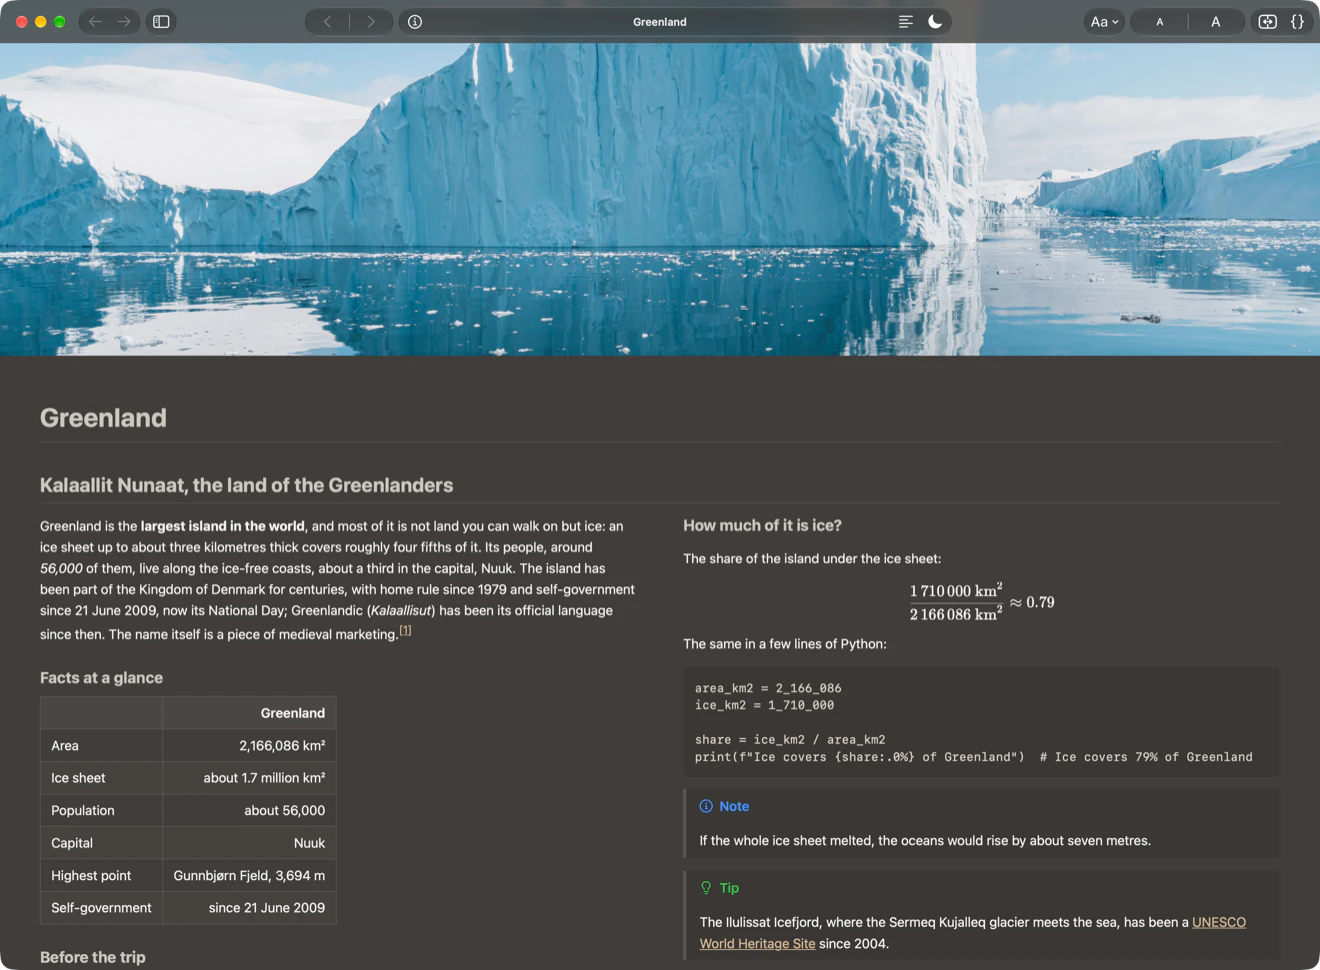
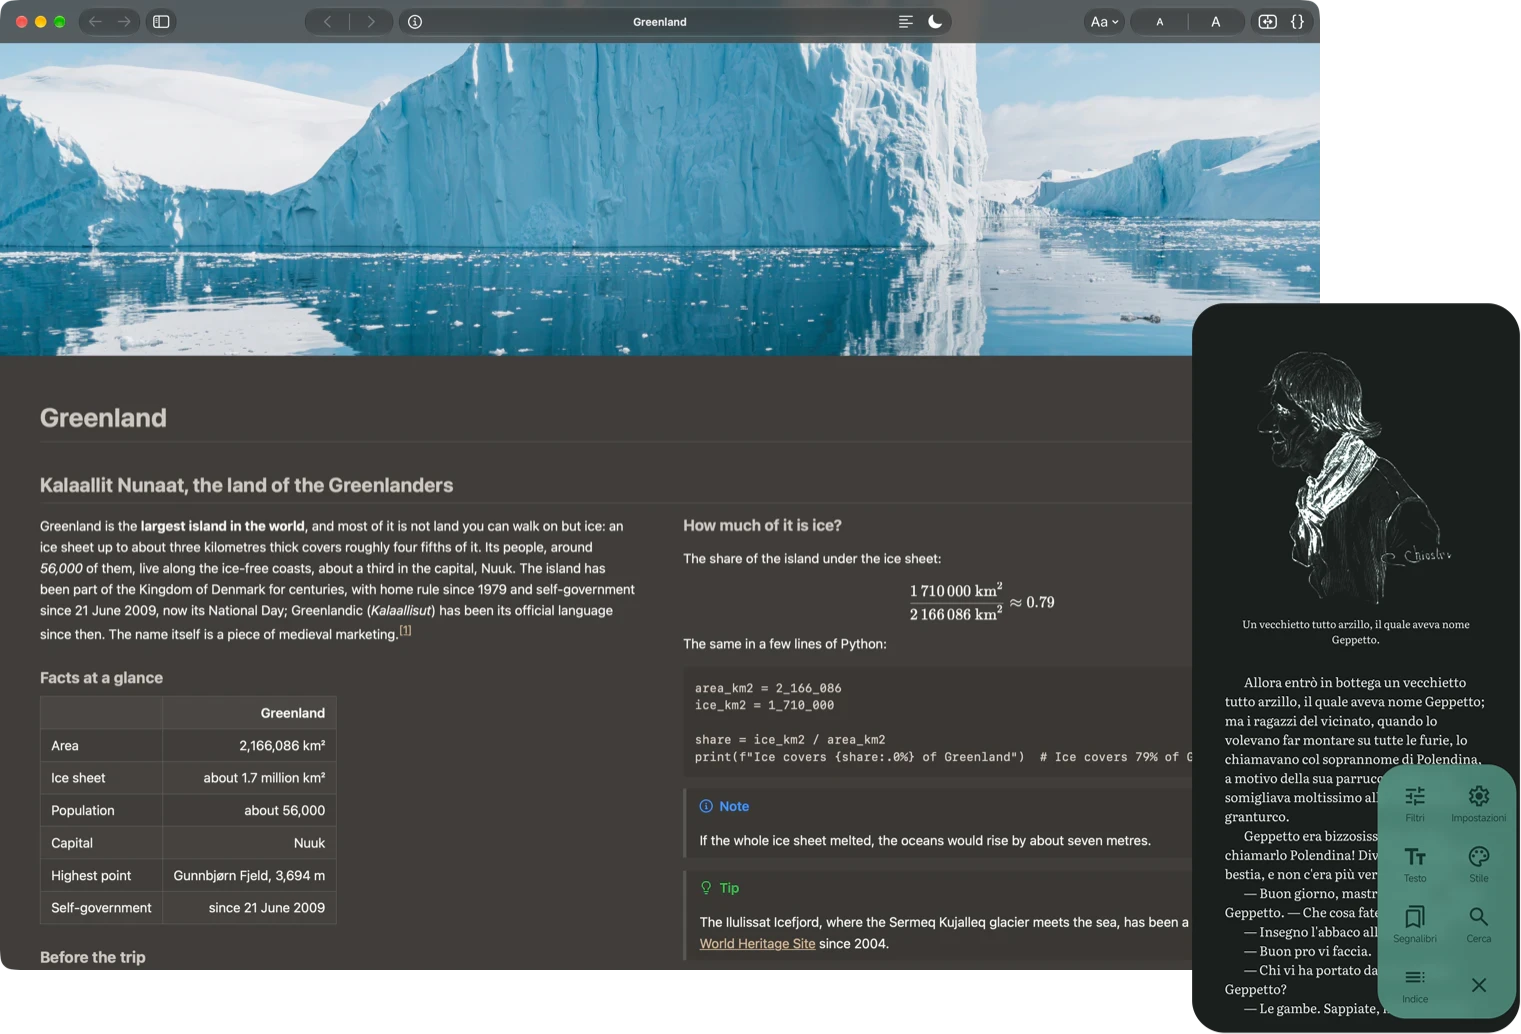
Aomidori: i tasti per macOS e per Android, e la schermata 1521 x 1034 (#1566)
Richiesta di Rocco del 2026-11-23 sulla pagina https://roccobot.github.io/Aomidori/.

- Il tasto dello Store diventa 'Scarica Aomidori per macOS' ('Download Aomidori for macOS').
- Il regalo dei codici promozionali esce dalla pagina: al suo posto c'è il tasto
  'Scarica Aomidori per Android' ('Download Aomidori for Android'), che porta a
  Roccobot/Aomidori-releases/releases/latest (scelta Pubblico-01). Le release del Mac su GitHub
  sono finite con la 2.27, che oggi è la più recente: il tasto si accende da solo quando l'API di
  GitHub dice che la release più recente contiene un APK, e fino ad allora resta la riga
  discreta 'In arrivo su Android'.
- Esce anche la nota 'Aomidori è un'app per Mac', che con un tasto per Android non è più vera.
- Tasti larghi uguali con le scritte nuove: 320 px in una colonna, 340 accanto alla schermata,
  tutta la colonna sul telefono (margine laterale 20 px), corpo 16 px sotto i 380 px; l'ultima
  parola è legata a quella prima. Misurati a 1440, 950, 390, 360 e 320 px nelle due lingue.
- Le due schermate sono il segnaposto di Rocco (macOS e Android, tema scuro), 1521 x 1034 in
  WebP a qualità 90, 174 KB, uguale nei due temi (scelta Immagine-01) finché non arriva
  l'immagine vera; VERSIONE_SCHERMATE sale a 10.

Agent: Claude Code

diff --git a/Aomidori/index.html b/Aomidori/index.html
@@ -15,18 +15,19 @@
   Author: Rocco Casadei, a.k.a. Roccobot
 
   ⚠ Nothing on this page changes at a release: since the Mac App Store approved the app
-  (2026-10-27, Insegna), the button leads to its page there and nothing else. Up to then it asked
-  the GitHub API for the latest ZIP of Roccobot/Aomidori-releases, with steps to install it.
+  (2026-10-27, Insegna), the Mac button leads to its page there and nothing else. The Android
+  button leads to the latest release of Roccobot/Aomidori-releases, and lights up by itself once
+  that release holds an APK (the owner's choice Pubblico-01, 2026-11-23): the Mac's GitHub
+  releases ended with 2.27, which stays there as history.
   ⚠ Never innerHTML: every text goes in with textContent.
   The English texts are written in the page itself, so it reads (and is indexed) without
   JavaScript; the script switches them to Italian for an Italian browser, title included.
-  The screenshot on the right (below, on narrow screens) is one file per theme, the same in both
+  The picture on the right (below, on narrow screens) is one file per theme, the same in both
   languages (the owner's choice Orizzonte, 2026-10-27): assets/screenshot-light.webp and
-  screenshot-dark.webp, a 1600 x 1176 pt window made by the owner, served at 1320 x 970 px in
-  lossy WebP at quality 90 (his rule of 2026-10-27, Roccobot.md, web images light: at most three
-  times the 440 px the page gives it, and the window shows a photograph). Until a file exists
-  its slot stays hidden and the
-  page keeps one column: adding the four files is the whole change.
+  screenshot-dark.webp, 1521 x 1034 px since 2026-11-23 (the Mac and Android apps together, made
+  by the owner), in lossy WebP at quality 90 (his rule of 2026-10-27, Roccobot.md, web images
+  light: at most three times the width the page gives it). Until a file exists its slot stays
+  hidden and the page keeps one column.
   ⚠ The icon is Graphe's artwork, copied unaltered from Resources/Icon/ (aomidori-v2.svg and
   aomidori-v2-dark.svg): the page picks one per theme, it never redraws it.
   The favicon is the glyph of the icon in the brand colour #43B59E (assets/favicon.svg), as AIV's.
@@ -149,17 +150,17 @@
     box-shadow:0 3px 6px rgba(0,0,0,0.18);
   }
   .scarica:hover{text-decoration:none; filter:brightness(1.06)}
-  /* The Android button (Android-01, 2026-11-08), under the Mac button's note: the Mac button's
-     shape and size with an outline instead of the fill, drawn as an inset shadow so it takes no
-     room. Without an address (the app is not on Google Play yet) it is an <a> with no href, so
-     neither a link nor focusable, and it is only a quiet line with its glyph: as a switched-off
-     button of full size it made the column a stack of three boxes (Rocco, 2026-11-08). */
-  /* One width for every button of the column, Mac, Android and giveaway, in both languages
-     (Rocco, 2026-11-08): in one column 16.5 em of the Mac button's text, 264 px at 16 px and
-     297 px at 18 px on a phone, which holds the longest label, 'Get it for Android', with its
-     glyph and padding (measured in WebKit on 2026-11-08); next to the screenshot, 340 px (see
-     .schermata). */
-  .parole{--tasto:264px}
+  /* The Android button (Android-01, 2026-11-08), under the Mac button's note, where the giveaway
+     was until 2026-11-23: the Mac button's shape and size with an outline instead of the fill,
+     drawn as an inset shadow so it takes no room. Until the latest release of
+     Aomidori-releases holds an APK (see the script) it is an <a> with no href, so neither a link
+     nor focusable, and it is only a quiet line with its glyph: as a switched-off button of full
+     size it made the column a stack of boxes (Rocco, 2026-11-08). */
+  /* One width for every button of the column, Mac and Android, in both languages (Rocco,
+     2026-11-08): it holds the longest label, 'Download Aomidori for Android', with its glyph and
+     padding, 315 px at 16 px (measured on 2026-11-23, with the labels that name the system): 320 px
+     in one column, 340 px next to the screenshot (see .schermata), the whole column on a phone. */
+  .parole{--tasto:320px}
   .scarica{min-width:var(--tasto); justify-content:center}
   .scarica.contorno{background:none; color:var(--text-link); box-shadow:inset 0 0 0 1.5px currentColor; margin-top:6px}
   .scarica.contorno[href]:hover{background:color-mix(in srgb, var(--text-link) 8%, transparent)}
@@ -172,32 +173,6 @@
   /* On an Android phone the Android button comes first in its block, above the Mac's. */
   .su-android #scarica-android{order:-1}
   .tecnica{font-size:13px; color:var(--text-muted); opacity:0.72; margin:0}
-  .solo-mac{font-size:14px; color:var(--text-body); margin:0}
-  .solo-mac[hidden]{display:none}
-
-  /* Regalo: the giveaway, under the download button and quieter than it (an outline, not a fill). */
-  .regalo{display:flex; flex-direction:column; gap:10px; align-items:flex-start}
-  .regalo[hidden],.regalo-codice[hidden],.regalo-tasto[hidden]{display:none}
-  .regalo-tasto{
-    display:inline-flex; align-items:center; gap:10px; cursor:pointer;
-    font:inherit; font-size:15px; font-weight:600; color:var(--text-link);
-    background:none; border:1.5px solid currentColor; padding:11px 20px; border-radius:12px;
-    min-width:var(--tasto); justify-content:center;
-  }
-  .regalo-tasto:hover{background:color-mix(in srgb, var(--text-link) 8%, transparent)}
-  .regalo-tasto:disabled{opacity:0.6; cursor:default}
-  .regalo-codice{display:flex; align-items:center; gap:12px; flex-wrap:wrap}
-  .regalo-codice code{
-    font:600 18px/1 ui-monospace,SFMono-Regular,Menlo,monospace; letter-spacing:0.06em;
-    padding:12px 16px; border-radius:10px; border:1px solid var(--outline-variant);
-    user-select:all; overflow-wrap:anywhere;
-  }
-  .regalo-copia{
-    font:inherit; font-size:14px; color:var(--text-link); background:none; border:0;
-    border-bottom:1px dotted var(--outline); padding:4px 0 3px; cursor:pointer;
-  }
-  /* pre-line: the validity date goes on a line of its own (the \n in the texts). */
-  .regalo-nota{font-size:14px; line-height:1.5; color:var(--text-muted); margin:0; max-width:30rem; text-wrap:pretty; white-space:pre-line}
 
   /* The screenshot slot: hidden until its picture has loaded, so a missing file never shows
      as a broken image. Expected files, one per theme (see the script): assets/screenshot-light.webp
@@ -271,14 +246,16 @@
   @media (max-width:880px){
     .testa{--icona:88px}
     h1{font-size:30px}
-    .parole{--tasto:297px}
-    .scarica{font-size:18px; padding:16px 30px; border-radius:14px; align-self:center}
+    /* As wide as the column: at 390 px the English Android label takes 333 of its 342 px, so the
+       side padding is 20 px (30 px until 2026-11-23, with the shorter labels). */
+    .parole{--tasto:100%}
+    .scarica{font-size:18px; padding:16px 20px; border-radius:14px; align-self:center}
     .blocco-scarica{align-items:stretch}
-    .tecnica, .solo-mac{text-align:center}
-    .regalo{align-items:center}
-    .regalo-nota{text-align:center}
+    .tecnica{text-align:center}
     .fatti{grid-template-columns:1fr; padding-top:40px}
   }
+  /* Narrower phones (360 px and below): at 18 px the labels would wrap on two lines. */
+  @media (max-width:380px){ .scarica{font-size:16px} }
 </style>
 </head>
 <body>
@@ -299,17 +276,16 @@
     <div class="parole">
       <p class="claim" id="claim">Books scroll like web pages, comics turn the way they should, and your CSS is always right. No fluff, no read-aloud, no paid AI stuff.</p>
       <div class="blocco-scarica">
-        <p class="solo-mac" id="solo-mac" hidden></p>
         <a class="scarica" id="scarica" href="https://apps.apple.com/app/id6824296623">
           <svg viewBox="0 0 24 24" width="20" height="20" aria-hidden="true">
             <path d="M12 3.5v11.2M12 15.6l4.4-4.4M12 15.6L7.6 11.2" fill="none" stroke="currentColor" stroke-width="1.8" stroke-linecap="round"></path>
             <path d="M4.4 18.8h15.2" fill="none" stroke="currentColor" stroke-width="1.8" stroke-linecap="round"></path>
           </svg>
-          <span id="scarica-testo">Download Aomidori</span>
+          <span id="scarica-testo">Download Aomidori for macOS</span>
         </a>
         <p class="tecnica" id="tecnica">macOS 27 or later, Apple Silicon only</p>
-        <!-- Android-01 (2026-11-08): for everyone, a quiet line until the app is on Google Play,
-             then a button (ANDROID_URL in the script). -->
+        <!-- Android-01 (2026-11-08): for everyone, a quiet line until the latest release of
+             Aomidori-releases holds an APK, then a button (see the script). -->
         <a class="scarica contorno" id="scarica-android">
           <!-- A phone. -->
           <svg viewBox="0 0 24 24" width="20" height="20" aria-hidden="true">
@@ -319,23 +295,9 @@
           <span id="scarica-android-testo">Coming soon to Android</span>
         </a>
       </div>
-      <!-- Regalo (2026-11-01): the promo code giveaway. Hidden until aomidori-codes answers, so
-           without JavaScript, or once the block is removed from the Worker, nothing shows. -->
-      <div class="regalo" id="regalo" hidden>
-        <button type="button" class="regalo-tasto" id="regalo-tasto">
-          <!-- A gift: a box with a ribbon. -->
-          <svg viewBox="0 0 24 24" width="20" height="20" aria-hidden="true"><rect x="4" y="9.6" width="16" height="10.8" rx="1.8" fill="none" stroke="currentColor" stroke-width="1.8"></rect><path d="M3.2 9.6h17.6M12 9.6v10.8M12 9.6c-1.4-3.6-5.6-4.4-5.6-1.8 0 1.2 1.6 1.8 5.6 1.8 4 0 5.6-.6 5.6-1.8 0-2.6-4.2-1.8-5.6 1.8" fill="none" stroke="currentColor" stroke-width="1.8" stroke-linecap="round" stroke-linejoin="round"></path></svg>
-          <span id="regalo-testo"></span>
-        </button>
-        <div class="regalo-codice" id="regalo-codice" hidden>
-          <code id="regalo-valore"></code>
-          <button type="button" class="regalo-copia" id="regalo-copia"></button>
-        </div>
-        <p class="regalo-nota" id="regalo-nota" aria-live="polite"></p>
-      </div>
     </div>
   </div>
-  <figure class="schermata" id="schermata" hidden><img id="schermata-img" width="1320" height="970" alt=""></figure>
+  <figure class="schermata" id="schermata" hidden><img id="schermata-img" width="1521" height="1034" alt=""></figure>
   </div>
 
   <div class="fatti">
@@ -425,10 +387,9 @@
       descrizione: 'Aomidori: un lettore di libri, fumetti e documenti per macOS, leggero e scattante. I libri scorrono come una pagina web, e il tuo CSS ha l\'ultima parola.',
       sottotitolo: 'Lettore di libri e fumetti per macOS',
       claim: 'I libri scorrono come pagine Web, i fumetti si sfogliano come si deve, e il tuo CSS ha sempre ragione. Niente fuffa e niente paccottiglia AI.',
-      scarica: 'Scarica Aomidori',
+      scarica: 'Scarica Aomidori per macOS',
       sistema: 'macOS 27 o successivo, solo Apple Silicon',
-      soloMac: 'Aomidori è un\'app per Mac: scaricala da un Mac con Apple Silicon.',
-      android: 'In arrivo su Android', scaricaAndroid: 'Scarica per Android',
+      android: 'In arrivo su Android', scaricaAndroid: 'Scarica Aomidori per Android',
       schermata: 'Aomidori con un libro aperto',
       fatti: [
         ['Un capitolo, una pagina', 'Ogni capitolo di un libro scorre in verticale come una pagina web, e le frecce cambiano capitolo. Niente impaginazione.'],
@@ -442,15 +403,6 @@
         ['I fumetti, a pagine', 'I CBZ e i CBR si leggono a pagine, anche da destra a sinistra come i manga, con le pagine affiancate, i filtri e i capitoli della cartella.'],
         ['Anche i documenti', 'I file Markdown si aprono come un libro, con formule, note, tabelle e uno stile tutto loro.']
       ],
-      regalo: {
-        tasto: 'Ricevi un codice gratis',
-        attesa: 'Un attimo',
-        restano: function (n, tot) { return 'Ne restano ' + n + ' su ' + tot + ', uno a persona.'; },
-        come: 'Nell\'App Store fai clic sul tuo nome nella barra laterale e riscatta il codice come una carta regalo.\nVale fino al 28 novembre.',
-        finiti: function () { return 'I codici gratis sono finiti. Grazie a tutti!'; },
-        errore: 'Il codice non è arrivato. Riprova fra poco.',
-        copia: 'Copia', copiato: 'Copiato'
-      },
       altra: 'English', titoloAltra: 'Read this page in English',
       temi: { light: 'Tema chiaro', dark: 'Tema scuro' },
       titoliTema: { light: 'Passa al tema chiaro', dark: 'Passa al tema scuro' }
@@ -461,10 +413,9 @@
       descrizione: 'Aomidori: a light, snappy reader of books, comics and documents for macOS. Books scroll like a web page, and your CSS has the last word.',
       sottotitolo: 'Book and comic reader for macOS',
       claim: 'Books scroll like web pages, comics turn the way they should, and your CSS is always right. No fluff, no read-aloud, no paid AI stuff.',
-      scarica: 'Download Aomidori',
+      scarica: 'Download Aomidori for macOS',
       sistema: 'macOS 27 or later, Apple Silicon only',
-      soloMac: 'Aomidori is an app for the Mac: download it on a Mac with Apple Silicon.',
-      android: 'Coming soon to Android', scaricaAndroid: 'Get it for Android',
+      android: 'Coming soon to Android', scaricaAndroid: 'Download Aomidori for Android',
       schermata: 'Aomidori with a book open',
       fatti: [
         ['One chapter, one page', 'Each chapter of a book scrolls vertically like a web page, and the arrow keys change chapter. No pagination.'],
@@ -478,15 +429,6 @@
         ['Comics, page by page', 'CBZ and CBR files read page by page, right to left too like manga, with spreads, filters and the folder\'s chapters.'],
         ['Documents too', 'Markdown files open like a book, with formulas, footnotes, tables and a style of their own.']
       ],
-      regalo: {
-        tasto: 'Get a free code',
-        attesa: 'One moment',
-        restano: function (n, tot) { return n + ' of ' + tot + ' left, one per person.'; },
-        come: 'In the App Store, click your name in the sidebar and redeem the code like a gift card.\nValid until 28 November.',
-        finiti: function (tot) { return 'All ' + tot + ' free codes are gone. Thank you!'; },
-        errore: 'The code didn\'t arrive. Try again in a moment.',
-        copia: 'Copy', copiato: 'Copied'
-      },
       altra: 'Italiano', titoloAltra: 'Leggi questa pagina in italiano',
       temi: { light: 'Light theme', dark: 'Dark theme' },
       titoliTema: { light: 'Switch to the light theme', dark: 'Switch to the dark theme' }
@@ -528,17 +470,33 @@
   if (mqScuro.addEventListener) mqScuro.addEventListener('change', alSistema);
   else if (mqScuro.addListener) mqScuro.addListener(alSistema);
 
-  // A visitor on a phone or on Windows learns at once that this is an app for the Mac; on an
-  // Android phone the Android button comes first instead, and the note is not needed.
-  var suMac = /Macintosh|Mac OS X/.test(navigator.userAgent) && !(navigator.maxTouchPoints > 1);
-  var suAndroid = /Android/i.test(navigator.userAgent);
-  if (suAndroid) document.body.classList.add('su-android');
+  // On an Android phone the Android button comes first in its block.
+  if (/Android/i.test(navigator.userAgent)) document.body.classList.add('su-android');
 
-  // The Android app's address on Google Play: null until it is published, and the button stays
-  // switched off. Once it is set, the button becomes a link, and the titles should name Android
-  // too (the owner's choice Android-01, 2026-11-08).
-  var ANDROID_URL = null;
-  if (ANDROID_URL) el('scarica-android').href = ANDROID_URL;
+  // The Android button leads to the latest release of Aomidori-releases (the owner's choice
+  // Pubblico-01, 2026-11-23), whose newest release is the Mac's 2.27 ZIP until the first Android
+  // one: so it lights up only when the GitHub API says that release holds an APK. Without an
+  // answer (no JavaScript, no network, the API's hourly limit) it stays the quiet line. Once it
+  // is on, the titles should name Android too (the owner's choice Android-01, 2026-11-08).
+  var ANDROID_RELEASE = 'https://github.com/Roccobot/Aomidori-releases/releases/latest';
+  var ANDROID_API = 'https://api.github.com/repos/Roccobot/Aomidori-releases/releases/latest';
+  var androidPronto = false;
+  function cercaAndroid() {
+    fetch(ANDROID_API, { headers: { Accept: 'application/vnd.github+json' } })
+      .then(function (r) { if (!r.ok) throw new Error('release ' + r.status); return r.json(); })
+      .then(function (release) {
+        var file = release.assets || [];
+        for (var i = 0; i < file.length; i++) {
+          if (/\.apk$/i.test(file[i].name)) {
+            androidPronto = true;
+            el('scarica-android').href = ANDROID_RELEASE;
+            disegna();
+            return;
+          }
+        }
+      })
+      .catch(function () { /* no answer: the quiet line stays */ });
+  }
 
   function disegna() {
     var T = TESTI[stato.lingua];
@@ -551,14 +509,12 @@
     // `macOS` alone (2.20, the subtitle of his note on 2.10-13).
     el('sottotitolo').textContent = lega(T.sottotitolo).replace(/ (\S+)$/, NB + '$1');
     el('claim').textContent = lega(T.claim);
-    var soloMac = el('solo-mac');
-    soloMac.textContent = lega(T.soloMac);
-    soloMac.hidden = suMac || suAndroid;
     mostraSchermata(T);
-    el('scarica-testo').textContent = T.scarica;
-    el('scarica-android-testo').textContent = ANDROID_URL ? T.scaricaAndroid : T.android;
+    // The system's name tied to the word before: on a 320 px phone a label wraps as
+    // `per macOS`, never `macOS` alone.
+    el('scarica-testo').textContent = T.scarica.replace(/ (\S+)$/, NB + '$1');
+    el('scarica-android-testo').textContent = (androidPronto ? T.scaricaAndroid : T.android).replace(/ (\S+)$/, NB + '$1');
     el('tecnica').textContent = T.sistema;
-    disegnaRegalo(T.regalo);
 
     for (var f = 0; f < T.fatti.length; f++) {
       var titolo = document.querySelector('[data-t="f' + f + '"]');
@@ -582,7 +538,7 @@
   // The screenshots keep their names when they are taken again, so a browser could show an old
   // one from its cache next to a new one: their version goes in the address, and goes up by one
   // whenever they are replaced.
-  var VERSIONE_SCHERMATE = 9;
+  var VERSIONE_SCHERMATE = 10;
   var schermataMancante = {};
   function mostraSchermata(T) {
     var figura = el('schermata');
@@ -602,79 +558,6 @@
     el('schermata').hidden = true;
     document.body.classList.remove('con-schermata');
   }
-
-  // Regalo (2026-11-01): the promo code giveaway. The codes live only in the Worker
-  // aomidori-codes (Roccobot/Aomidori, cloud/codes/), which gives one per connection; the code a
-  // browser got is kept in it, so a second visit shows the same code instead of asking again.
-  // The page sends nothing about the visitor. Its state: 'chiuso' (hidden: no answer yet, or no
-  // Worker), 'aperto', 'attesa', 'codice', 'finiti', 'errore'.
-  var REGALO_URL = 'https://aomidori-codes.roccobot-b90.workers.dev';
-  var REGALO_CHIAVE = 'aomidori-promo-code';
-  var regalo = { fase: 'chiuso', codice: null, restano: 0, totale: 0, copiato: false };
-  function leggiCodice() { try { return localStorage.getItem(REGALO_CHIAVE); } catch (e) { return null; } }
-  function salvaCodice(codice) { try { localStorage.setItem(REGALO_CHIAVE, codice); } catch (e) { /* the Worker remembers it too */ } }
-
-  function disegnaRegalo(R) {
-    var blocco = el('regalo');
-    blocco.hidden = regalo.fase === 'chiuso';
-    if (blocco.hidden) return;
-    var tasto = el('regalo-tasto');
-    var conCodice = regalo.fase === 'codice';
-    tasto.hidden = conCodice || regalo.fase === 'finiti';
-    tasto.disabled = regalo.fase === 'attesa';
-    el('regalo-testo').textContent = regalo.fase === 'attesa' ? R.attesa : R.tasto;
-    el('regalo-codice').hidden = !conCodice;
-    if (conCodice) {
-      el('regalo-valore').textContent = regalo.codice;
-      el('regalo-copia').textContent = regalo.copiato ? R.copiato : R.copia;
-    }
-    var nota = '';
-    if (conCodice) nota = R.come;
-    else if (regalo.fase === 'finiti') nota = R.finiti(regalo.totale);
-    else if (regalo.fase === 'errore') nota = R.errore;
-    else nota = R.restano(regalo.restano, regalo.totale);
-    el('regalo-nota').textContent = lega(nota);
-  }
-  function ridisegnaRegalo() { disegnaRegalo(TESTI[stato.lingua].regalo); }
-
-  function apriRegalo() {
-    var noto = leggiCodice();
-    if (noto) { regalo.codice = noto; regalo.fase = 'codice'; ridisegnaRegalo(); return; }
-    fetch(REGALO_URL + '/status', { cache: 'no-store' })
-      .then(function (r) { if (!r.ok) throw new Error('status ' + r.status); return r.json(); })
-      .then(function (s) {
-        if (!s.total) return;
-        regalo.totale = s.total; regalo.restano = s.remaining;
-        regalo.fase = s.remaining > 0 ? 'aperto' : 'finiti';
-        ridisegnaRegalo();
-      })
-      .catch(function () { /* no Worker, no giveaway: the block stays hidden */ });
-  }
-
-  el('regalo-tasto').addEventListener('click', function () {
-    if (regalo.fase === 'attesa') return;
-    regalo.fase = 'attesa';
-    ridisegnaRegalo();
-    fetch(REGALO_URL + '/claim', { method: 'POST', cache: 'no-store' })
-      .then(function (r) {
-        if (r.status !== 200 && r.status !== 410) throw new Error('claim ' + r.status);
-        return r.json();
-      })
-      .then(function (a) {
-        regalo.totale = a.total; regalo.restano = a.remaining;
-        if (a.code) { regalo.codice = a.code; salvaCodice(a.code); regalo.fase = 'codice'; }
-        else regalo.fase = 'finiti';
-        ridisegnaRegalo();
-      })
-      .catch(function () { regalo.fase = 'errore'; ridisegnaRegalo(); });
-  });
-  el('regalo-copia').addEventListener('click', function () {
-    if (!navigator.clipboard) return;
-    navigator.clipboard.writeText(regalo.codice).then(function () {
-      regalo.copiato = true;
-      ridisegnaRegalo();
-    });
-  });
 
   el('lingua').addEventListener('click', function () {
     stato.lingua = (stato.lingua === 'it') ? 'en' : 'it';
@@ -702,7 +585,7 @@
 
   applicaTema();
   disegna();
-  apriRegalo();
+  cercaAndroid();
 })();
 </script>
 
